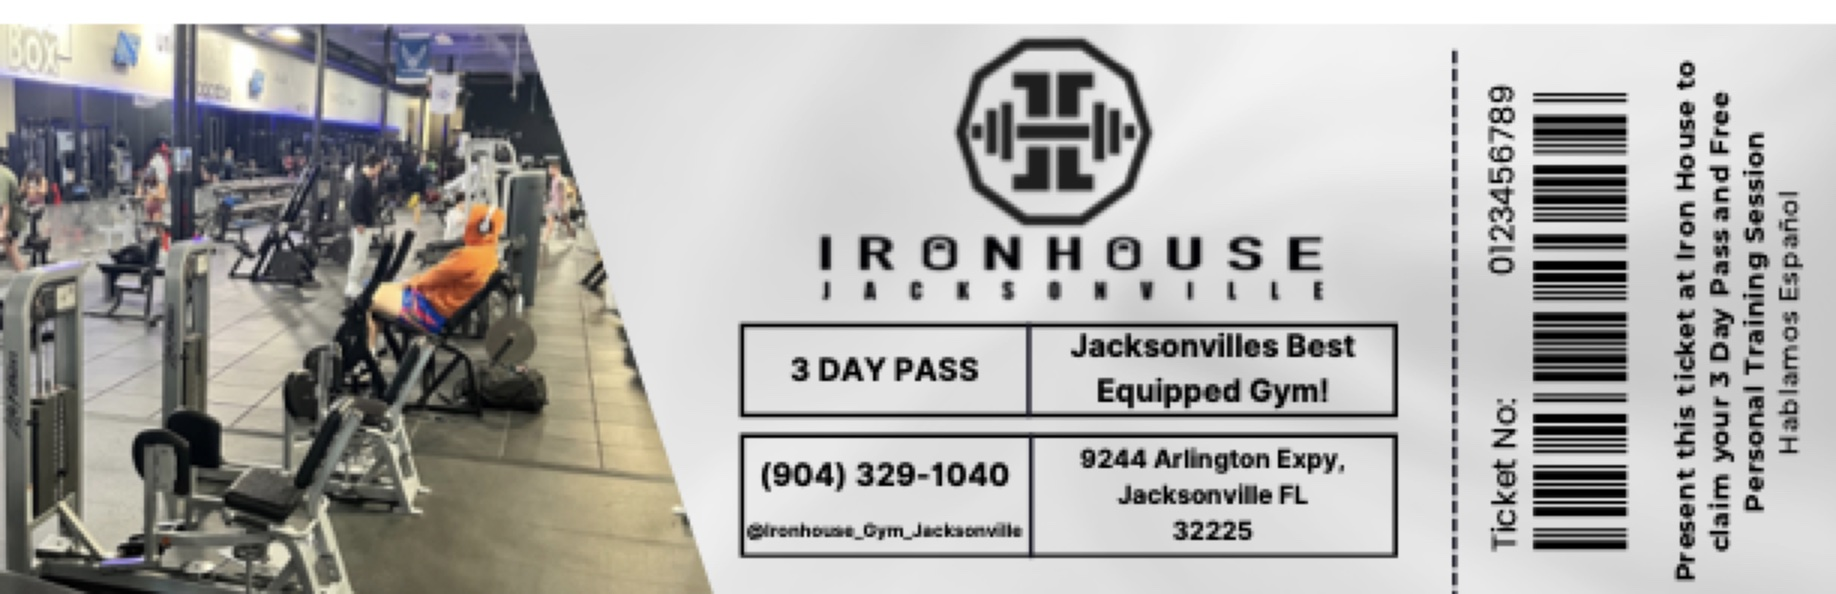
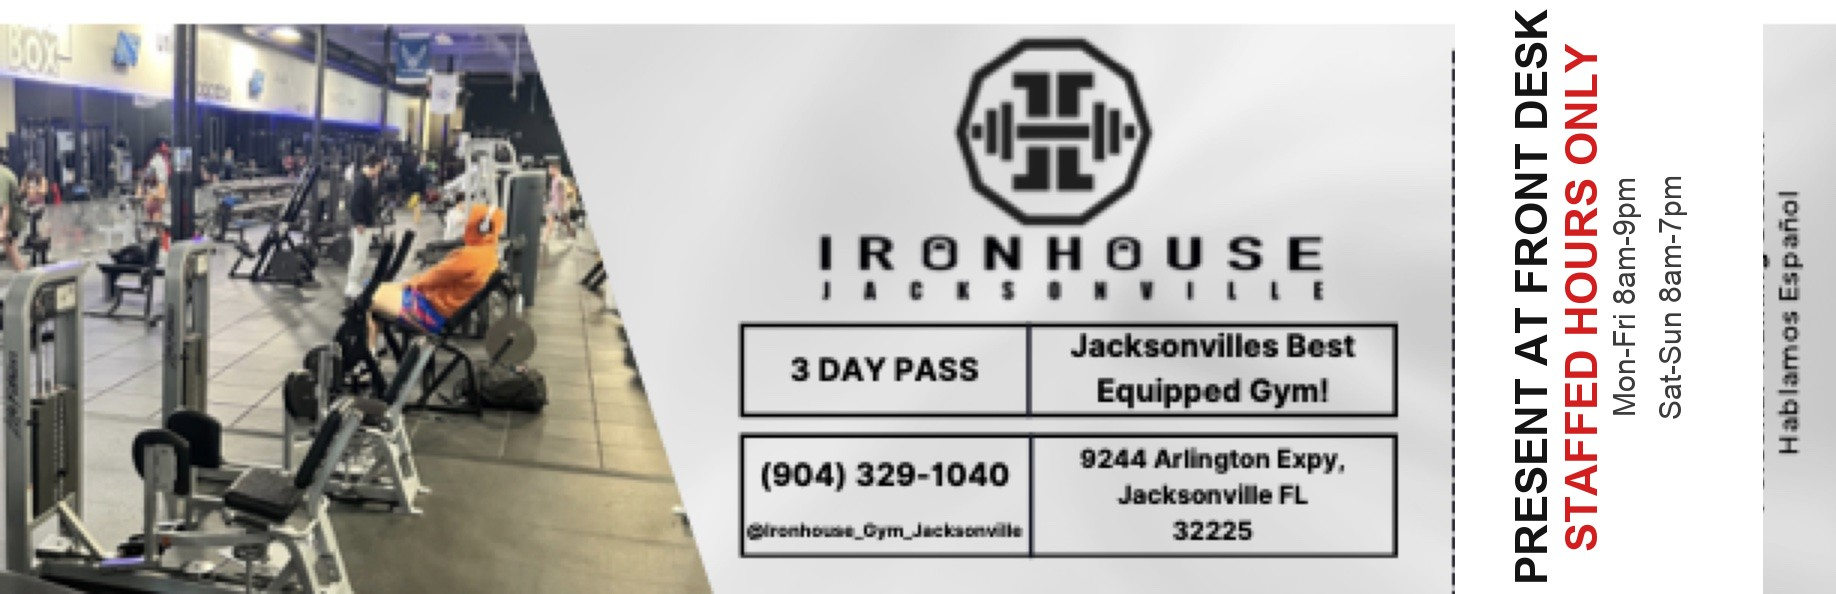
3-day pass: 'staffed hours only' everywhere + remove barcode
A visitor showed up after hours, tried to scan the pass (barcode is
decorative, no scanner on the door), then tailgated in behind a
member. Fix: make the staffed-hours constraint explicit on every
surface, and remove the visual that invited the scan attempt.

- Pass JPG (/images/3-day-pass.jpg): remove the barcode + sample
  number ("0123456789") from the right stub. Replace with vertical
  text 'PRESENT AT FRONT DESK · STAFFED HOURS ONLY · Mon-Fri 8am-9pm
  · Sat-Sun 8am-7pm'. Original backed up to _backup_20260921/.
- Pass modal disclaimer: append 'Redeemable during staffed hours only
  (Mon-Fri 8am-9pm · Sat-Sun 8am-7pm)' next to the existing
  Jacksonville-only / first-time-only line.
- /free-pass terms: new bullet before the enrollment line, bolded,
  spells out the hours and that the pass is checked in person — no
  after-hours entry.

Formspree auto-response email + SMS follow-up copy still need the
same qualifier; those live outside the repo and are being handled
with Chris / the ads session separately.

Changed region(s): [[0.7761, 0.0303, 0.9624, 1.0]]

diff --git a/index.html b/index.html
@@ -128,7 +128,7 @@
       <div class="modal-content">
         <h2>Claim Your <span class="accent-text">3 Day Pass!</span></h2>
         <p>Enter your info below to download your free 3 Day Pass. Present it at the front desk with your ID to get started!</p>
-        <p class="modal-disclaimer">*Jacksonville residents only · First-time visitors only</p>
+        <p class="modal-disclaimer">*Jacksonville residents only · First-time visitors only · <strong>Redeemable during staffed hours only</strong> (Mon-Fri 8am-9pm · Sat-Sun 8am-7pm)</p>
         <form class="modal-form" id="pass-form" action="https://formspree.io/f/xbdqvyag" method="POST">
           <input type="text" name="name" placeholder="Enter Your Name" required>
           <input type="tel" name="phone" placeholder="Enter Your Phone" required>

diff --git a/free-pass.html b/free-pass.html
@@ -172,6 +172,7 @@
         <ul>
           <li>First-time Jacksonville visitors only.</li>
           <li>Bring a valid photo ID.</li>
+          <li><strong>Redeemable during staffed hours only:</strong> Mon-Fri 8am-9pm · Sat-Sun 8am-7pm. The pass is checked in person at the front desk — no after-hours entry.</li>
           <li>Your 3 days start on your first visit, not when you request the pass.</li>
           <li>Enrollment: $50 standard / $25 military, police &amp; fire — often waived. Sign up during your 3 days and we knock it down further.</li>
         </ul>
